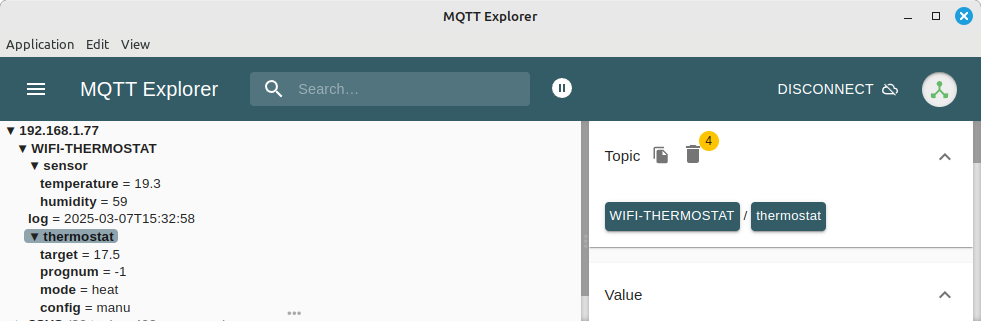
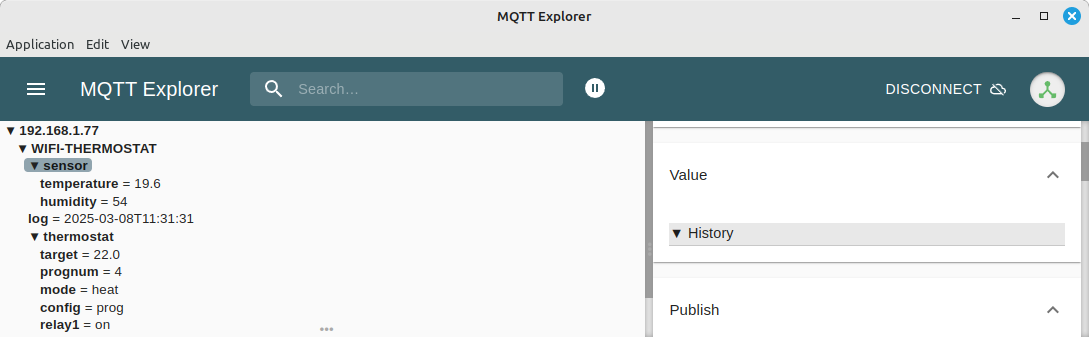
mqtt ajout etat du relais
topic WIFI-THERMOSTAT/thermostat/relay1

diff --git a/WifiTherm.h b/WifiTherm.h
@@ -61,9 +61,26 @@ extern "C" {
 #include "config.h"
 
 //=====================================================
+// Décommenter DEBUG pour une version capable d'afficher du Debug
+//  sur le port USB (Serial)
+// Arduino IDE : Outils/Moniteur série
+//=====================================================
+
+#define DEBUG
+
+//=====================================================
+// Décommenter SYSLOG pour une version capable d'envoyer du Debug
+//  vers un serveur rsyslog du réseau
+//=====================================================
+
+// #define SYSLOG
+
+//=====================================================
 // Temperature Sensors
 // Define only one sensor type
 //=====================================================
+// Décommenter l'un des 4 en fonction du capteur de température utilisé
+// 
 // Décommenter THER_SIMU (et commenter les autres) pour compiler une version de test
 // Le thermostat ne lit plus le capteur de température / humidité
 // Les valeurs affichée sont des valeurs simulées
@@ -120,16 +137,6 @@ extern "C" {
 // #define RED_LED_PIN    14
 
 #define BLINK_LED_MS   50 // 50 ms blink
-
-
-// Décommenter DEBUG pour une version capable d'afficher du Debug
-//  sur Serial
-#define DEBUG
-
-// Décommenter SYSLOG pour une version capable d'envoyer du Debug
-//  vers un serveur rsyslog du réseau
-// #define SYSLOG
-
 
 
 // ESP8266 ESP32

diff --git a/config.h b/config.h
@@ -43,6 +43,7 @@
 #define MQTT_THERMOSTAT_PROGNUM "thermostat/prognum"
 #define MQTT_THERMOSTAT_MODE    "thermostat/mode"
 #define MQTT_THERMOSTAT_CONFIG  "thermostat/config"
+#define MQTT_THERMOSTAT_RELAY_1 "thermostat/relay1"
 
 #define CFG_JDOM_HOST_SIZE      32
 #define CFG_JDOM_APIKEY_SIZE    64
@@ -262,6 +263,8 @@ extern bool saveConfig(void);
 extern void showConfig(void);
 extern const char *t_mode_str[];
 extern const char *t_config_str[];
+extern const char *t_relay_status_str[];
 extern int sizeof_t_mode_str;
 extern int sizeof_t_config_str;
+
 #endif 

diff --git a/config.cpp b/config.cpp
@@ -33,6 +33,15 @@ const char *t_config_str[] = {
 
 int sizeof_t_config_str = sizeof(t_config_str) / sizeof(t_config_str[0]);
 
+// ================= THERMOSTAT RELAY STATUS ==================
+const char *t_relay_status_str[] = {
+    "off",
+    "on",
+};
+
+int sizeof_t_relay_status_str = sizeof(t_relay_status_str) / sizeof(t_relay_status_str[0]);
+
+
 
 uint16_t crc16Update(uint16_t crc, uint8_t a)
 {

diff --git a/README.md b/README.md
@@ -182,11 +182,12 @@ Sous réserve de tests
 | Topic                              | Donnée             | Commentaire             |
 |------------------------------------|--------------------|-------------------------|
 | WIFI-THERMOSTAT/sensor/temp        | Température        | Celsius or Fahrenheit   |
-| WIFI-THERMOSTAT/sensor/hum         | Humidité           | [0-100]% or -1 if none  |                     
+| WIFI-THERMOSTAT/sensor/hum         | Humidité           | [0-100]% or -1 if none  |
 | WIFI-THERMOSTAT/thermostat/target  | Consigne           | Celsius or Fahrenheit   |
 | WIFI-THERMOSTAT/thermostat/prognum | N° ligne programme | [0-27] -1 if none       |
 | WIFI-THERMOSTAT/thermostat/mode    | Mode               | off/antifrost/heat/cool |
 | WIFI-THERMOSTAT/thermostat/config  | Config             | manu/prog               |
+| WIFI-THERMOSTAT/thermostat/relay1  | Etat du relais     | on/off                  |
 
 #### Mqtt update command
 | Topic                              | Donnée             | Commentaire             |
